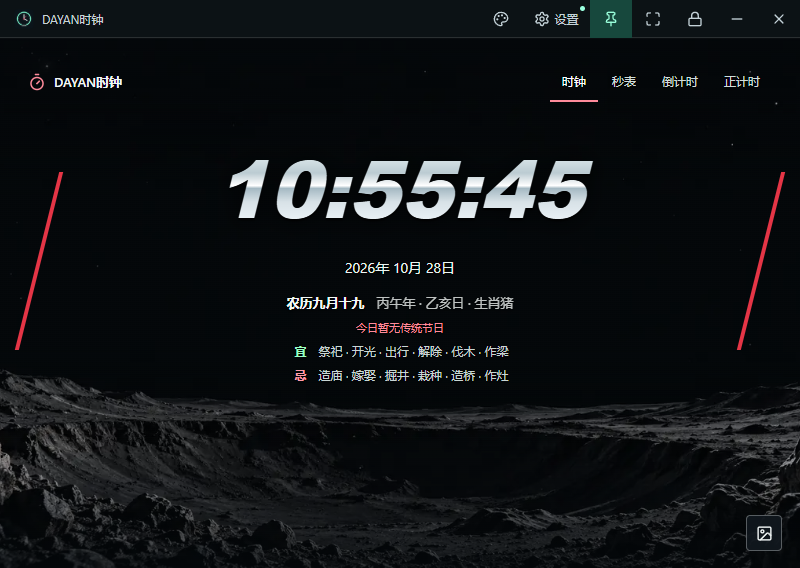
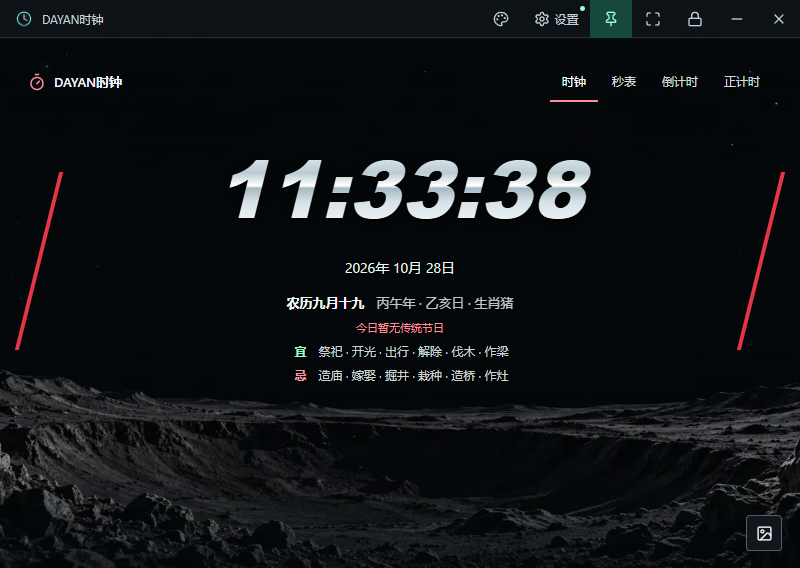
Fix window restoration and remove side bars after fullscreen

Changed region(s): [[0.4375, 0.2694, 0.75, 0.3891], [0.3438, 0.2694, 0.4062, 0.3891]]

diff --git a/renderer/desktop.css b/renderer/desktop.css
@@ -17,8 +17,9 @@ button:focus-visible { outline:2px solid #94ffe0;outline-offset:-3px; }
 .window-tools button:hover { background:#ffffff16; }
 .window-tools button[aria-pressed="true"] { background:#17483d;color:#99ffdb; }
 .window-tools #close:hover { background:#c43e50;color:#fff; }
-#simple-timers { height:530px; }
-#simple-timers .timer { height:530px;min-height:530px;border-radius:0;border:0; }
+#simple-timers { height:calc(100% - 38px); }
+#simple-timers [data-variant] { height:100%; }
+#simple-timers .timer { height:100%;min-height:100%;border-radius:0;border:0; }
 #simple-timers header { padding-right:0; }
 #simple-timers .background-toggle { cursor:pointer; }
 #simple-timers .background-choice img { object-fit:cover; }

diff --git a/renderer/desktop.js b/renderer/desktop.js
@@ -43,12 +43,13 @@
       stage.style.height = '100vh';
       return;
     }
-    stage.style.width = '800px';
-    stage.style.height = '568px';
     const scale = Math.min(innerWidth / 800, innerHeight / 568);
+    if (scale <= 0) return;
+    stage.style.width = `${innerWidth / scale}px`;
+    stage.style.height = `${innerHeight / scale}px`;
     stage.style.transform = `scale(${scale})`;
-    stage.style.left = `${(innerWidth - 800 * scale) / 2}px`;
-    stage.style.top = `${(innerHeight - 568 * scale) / 2}px`;
+    stage.style.left = '0px';
+    stage.style.top = '0px';
   };
   addEventListener('resize', fit); fit();
 

diff --git a/docs/verification.md b/docs/verification.md
@@ -1,5 +1,17 @@
 # 桌面验收
 
+## 1.3.2 窗口恢复回归
+
+验证日期：2026-10-28，Windows 11 专业版 x64。先在修复前复现：从普通窗口锁屏后解锁，原 800×568 窗口错误恢复为 3440×1440，页面两侧各留出约 706 像素。
+
+修复后，独立测试数据中的普通窗口在锁屏解锁、连续三次全屏切换及全屏最小化恢复、普通窗口最小化恢复后，均恢复原位置与尺寸；页面与实际客户区边缘重合。另验证已经全屏时再锁屏，以及 480、1200 像素宽窗口的锁定解锁。验证检查窗口尺寸、视口、页面边界和保存的普通窗口记录，而非仅确认全屏标志。
+
+开发模式与 `win-unpacked` 程序的十组完整桌面回归通过，无应用错误。窗口恢复专项同时在打包程序及从最终 NSIS 安装包提取的程序上通过。本次检查使用独立用户数据目录，不修改本机 Windows 策略。
+
+以下为修复后使用赛博终端样式、冰晶壁纸的普通窗口截图，壁纸与标题栏均到达窗口左右边缘：
+
+![修复后的普通窗口](screenshots/window-restored.png)
+
 ## 1.3.1 已有验证记录
 
 验证日期：2026-10-28。实机为 Windows 11 专业版 x64。开发模式、`win-unpacked` 程序及从 NSIS 安装包提取的实际程序完成桌面自动化检查。安装包提取测试验证程序负载，不等于在所有系统上完整执行安装向导。
@@ -20,6 +32,7 @@
 - 检查秒表、正计时、倒计时的启动、暂停、重置与倒计时归零；切换样式和时钟不打断后台计时。
 - 从最小窗口拖动四角，再全屏；在横屏、竖屏和不同缩放比例上确认数字、黄历和按钮没有裁切。
 - 全屏停止移动鼠标后顶部栏隐藏，移动后显示；退出全屏后恢复原窗口。
+- 连续三次全屏、最小化恢复、退出全屏；再从普通窗口锁屏并解锁，确认普通窗口原位置和大小恢复、背景无两侧黑边。
 - 设置数字密码，从普通窗口点击锁定后应铺满所在屏幕；操作控件隐藏，仅可从锁按钮验证密码恢复。
 - 错误密码不能解锁，正确密码加回车可以解锁；原密码仍可用于修改密码。
 - 再次启动只保留一个窗口；关闭再打开保留样式、目标时间和窗口设置，默认仍进入时钟。

diff --git a/README.md b/README.md
@@ -2,7 +2,7 @@
 
 用于培训展示、直播计时和桌面屏保的离线桌面工具。打开即显示电脑本地时间，可切换秒表、倒计时和正计时；提供五种数字样式、十张本地壁纸、日期与黄历，以及密码锁定展示模式。
 
-当前版本：**1.3.1**。本仓库为私有代码与安装包备份，供获授权的维护者访问。
+当前版本：**1.3.2**。本仓库为私有代码与安装包备份，供获授权的维护者访问。
 
 [下载安装包](https://github.com/jyan5334-lab/dayan-clock/releases/latest) · [使用说明](docs/user-guide.md) · [部署与构建](docs/deployment.md) · [换电脑与远程维护](docs/maintenance.md) · [更新记录](CHANGELOG.md)
 
@@ -65,11 +65,11 @@
 | 其他平台 | Windows 12 等未来版本及 ARM64 授权未验证；macOS 仅预留构建配置 |
 
 1. 登录有本仓库访问权限的 GitHub 账号，打开 [Releases](https://github.com/jyan5334-lab/dayan-clock/releases)。
-2. 下载 `DAYANClock-Setup-1.3.1-x64.exe`，运行后选择安装目录。
+2. 下载 `DAYANClock-Setup-1.3.2-x64.exe`，运行后选择安装目录。
 3. 从桌面或开始菜单启动，首次打开可在设置中确认系统版本与策略状态。
 4. 核对设置页中的软件版本。升级时先退出旧程序，再运行新安装包。
 
-安装包当前未做 Windows 代码签名，系统可能显示“未知发布者”。每个版本附带 `SHA256SUMS-1.3.1.txt`，校验方法见 [部署说明](docs/deployment.md#安装包校验)。
+安装包当前未做 Windows 代码签名，系统可能显示“未知发布者”。每个版本附带 `SHA256SUMS-1.3.2.txt`，校验方法见 [部署说明](docs/deployment.md#安装包校验)。
 
 ## 开发与构建
 

diff --git a/docs/releases/v1.3.2.md b/docs/releases/v1.3.2.md
@@ -1,0 +1,23 @@
+# DAYAN时钟 1.3.2
+
+修复退出全屏或锁屏后恢复窗口时，两侧出现大块黑边的问题。
+
+## 修复内容
+
+- 进入锁屏前单独保存普通窗口尺寸和位置，屏幕大小不再覆盖普通窗口记录。
+- 解锁、退出全屏与最小化恢复时，恢复并校正普通窗口尺寸；全屏最小化恢复后保持全屏展示。
+- 页面背景和标题栏填满实际窗口客户区，数字保持统一比例缩放。
+
+## 下载与升级
+
+- `DAYANClock-Setup-1.3.2-x64.exe`：Windows 10/11 x64 安装包。
+- `DAYANClock-Source-1.3.2.zip`：本版本完整源码、图片与文档。
+- `SHA256SUMS-1.3.2.txt`：安装包和源码包校验值。
+
+退出旧版后运行安装包升级。原有样式、背景、密码和本机设置保留。安装包当前未做代码签名。当前不提供已验证的 Mac 安装包。
+
+## 验证
+
+在 Windows 11 x64 的独立测试用户数据目录验证锁屏解锁、连续三次全屏切换及全屏最小化恢复、普通窗口最小化恢复。普通窗口恢复到原位置与尺寸，页面边缘与窗口客户区一致。
+
+完整计时与设置回归结果见仓库 `docs/verification.md`。本次验证不修改本机 Windows 策略。

diff --git a/docs/deployment.md b/docs/deployment.md
@@ -10,11 +10,11 @@
 
 ## 安装包校验
 
-同一 Release 下载 `SHA256SUMS-1.3.1.txt` 与安装包，在下载目录运行：
+同一 Release 下载 `SHA256SUMS-1.3.2.txt` 与安装包，在下载目录运行：
 
 ```powershell
-Get-FileHash -Algorithm SHA256 .\DAYANClock-Setup-1.3.1-x64.exe
-Get-FileHash -Algorithm SHA256 .\DAYANClock-Source-1.3.1.zip
+Get-FileHash -Algorithm SHA256 .\DAYANClock-Setup-1.3.2-x64.exe
+Get-FileHash -Algorithm SHA256 .\DAYANClock-Source-1.3.2.zip
 ```
 
 将输出与校验文件逐项比较。安装包暂未签名，可能出现未知发布者提示；校验值用于确认文件与该版本资产一致，不代替代码签名。

diff --git a/CHANGELOG.md b/CHANGELOG.md
@@ -1,5 +1,12 @@
 # 更新记录
 
+## 1.3.2
+
+- 修复锁屏扩大窗口时误保存普通窗口尺寸，导致解锁或退出全屏后两侧出现大块黑边的问题。
+- 独立保存普通窗口位置和尺寸，退出全屏、解锁与最小化恢复后重新校正；全屏期间不覆盖普通窗口记录。
+- 页面以统一比例缩放并填满实际客户区，消除窗口尺寸取整时的细小留边。
+- 验证连续全屏切换、全屏最小化恢复、锁屏解锁和普通窗口最小化恢复。
+
 ## 1.3.1
 
 - 顶部增加独立“设置”按钮，已有密码时仍可进入 Windows 授权设置。
